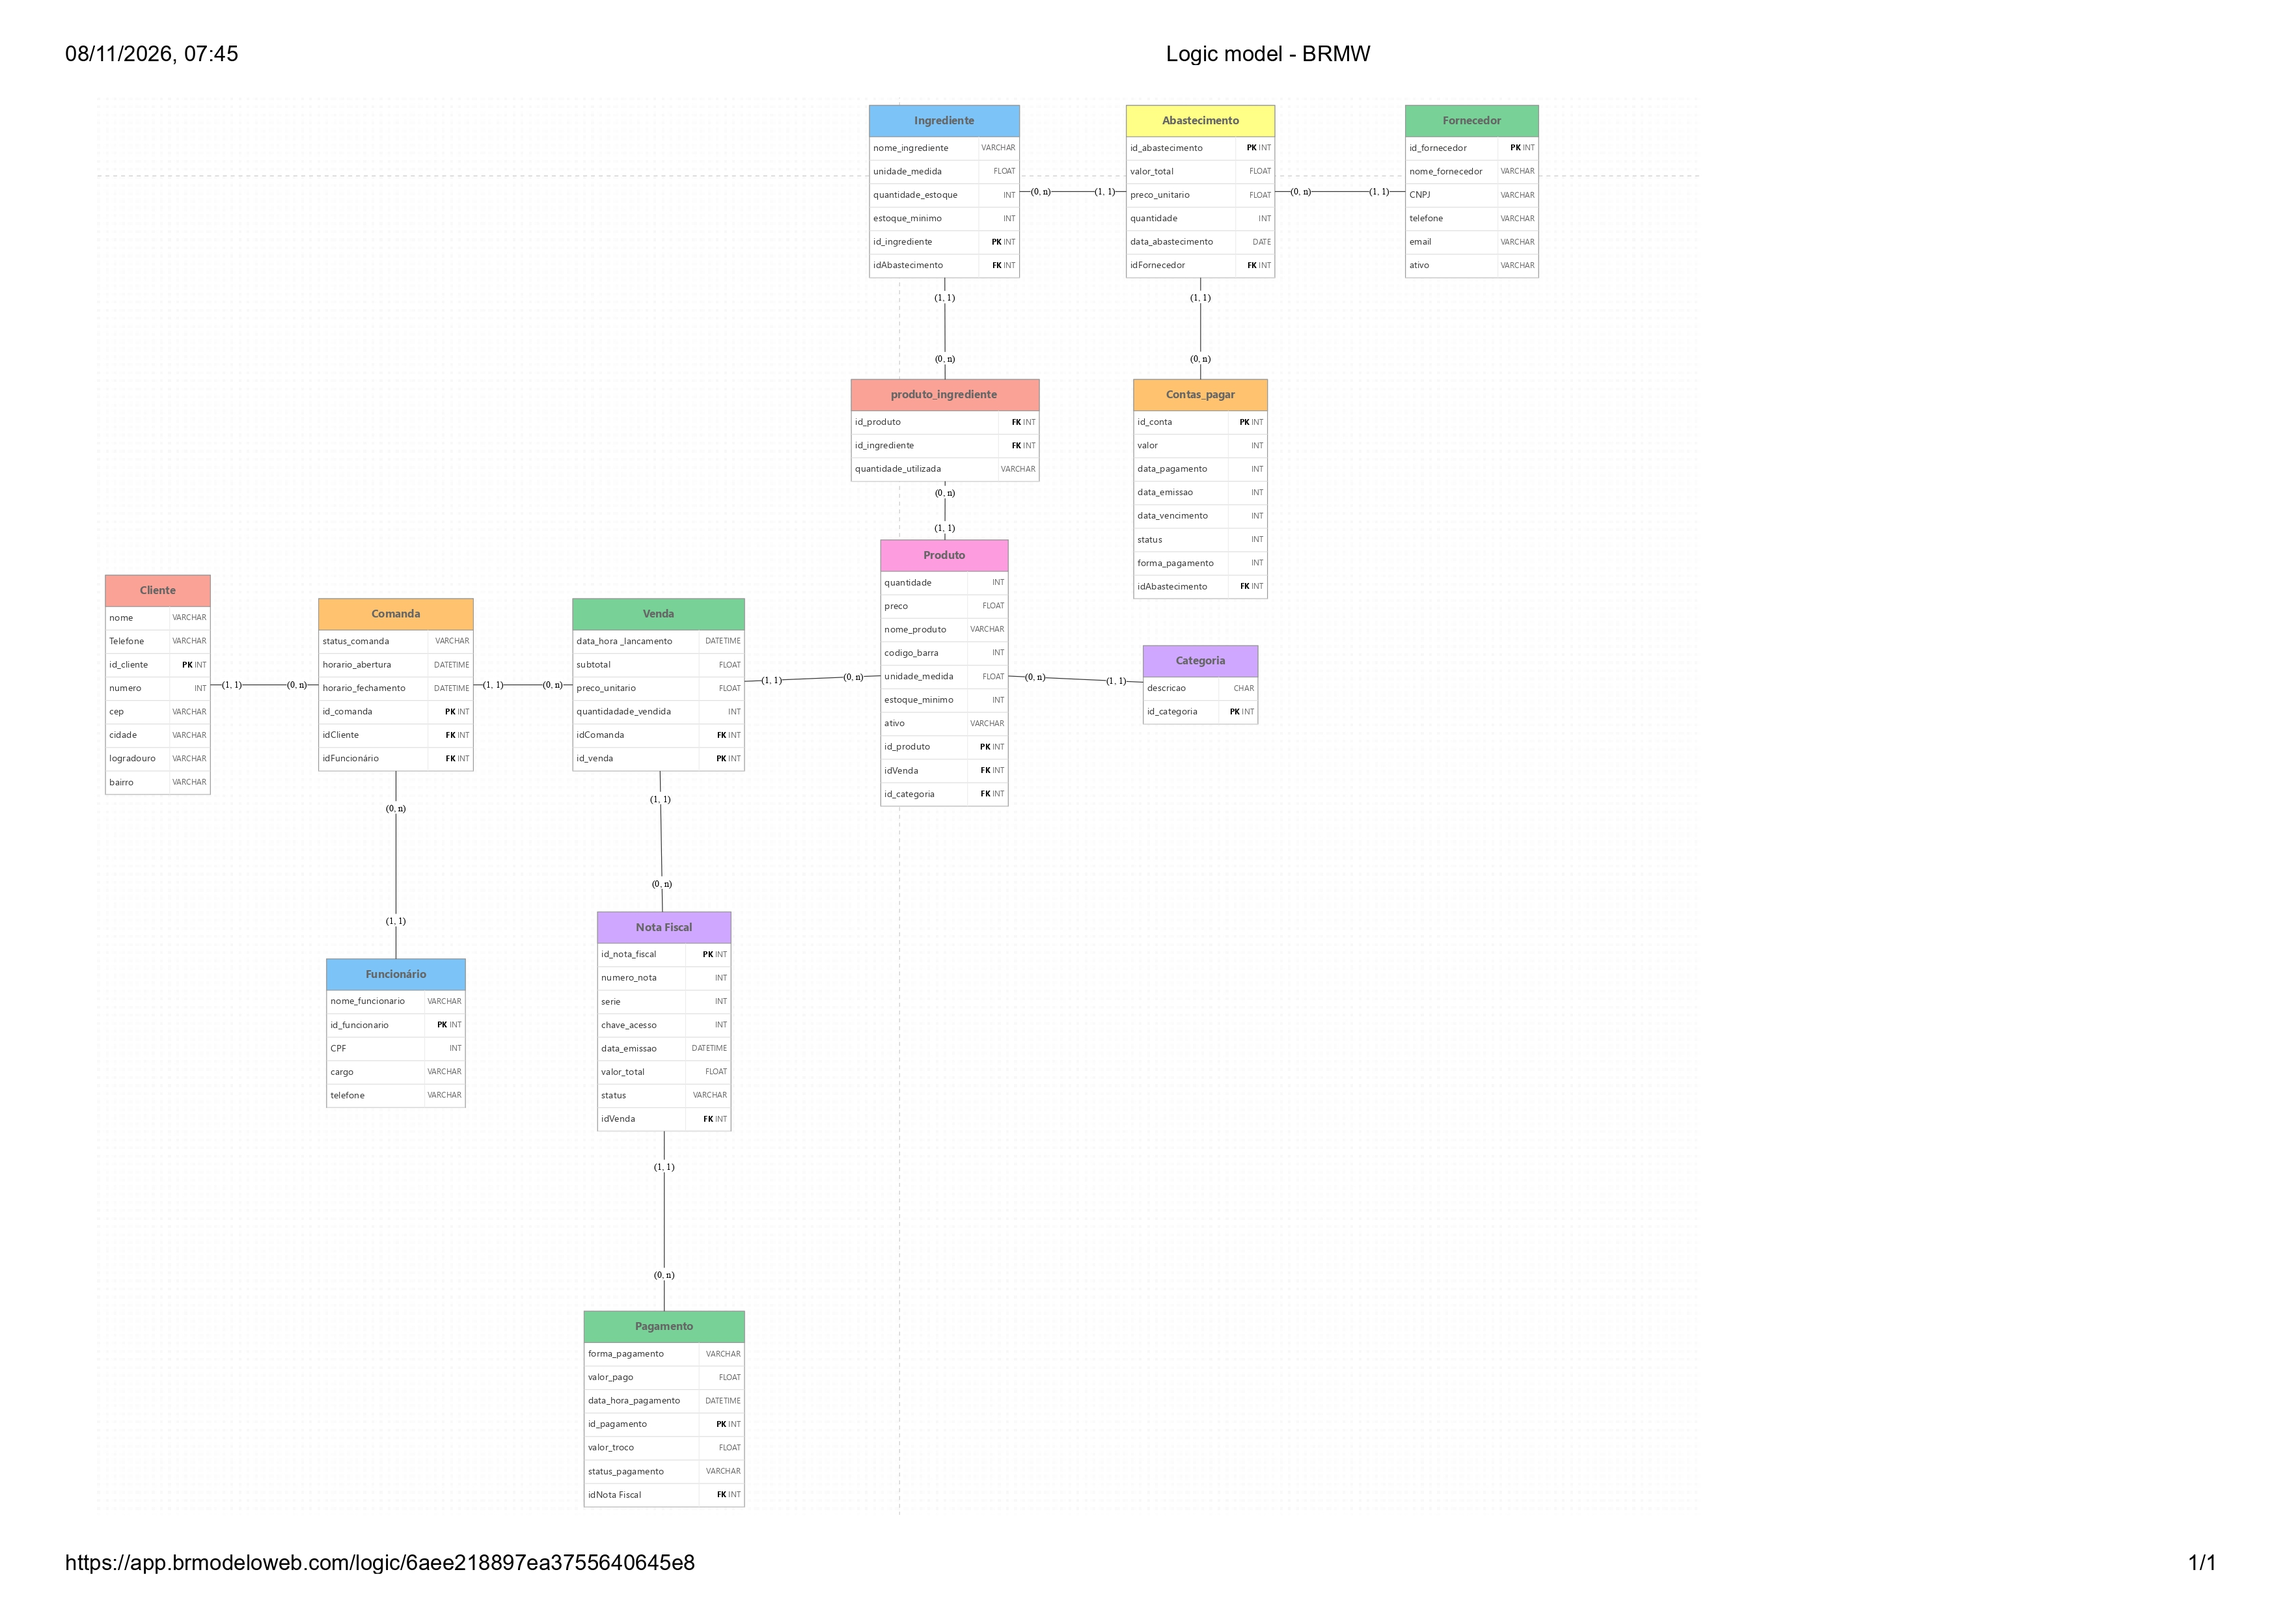
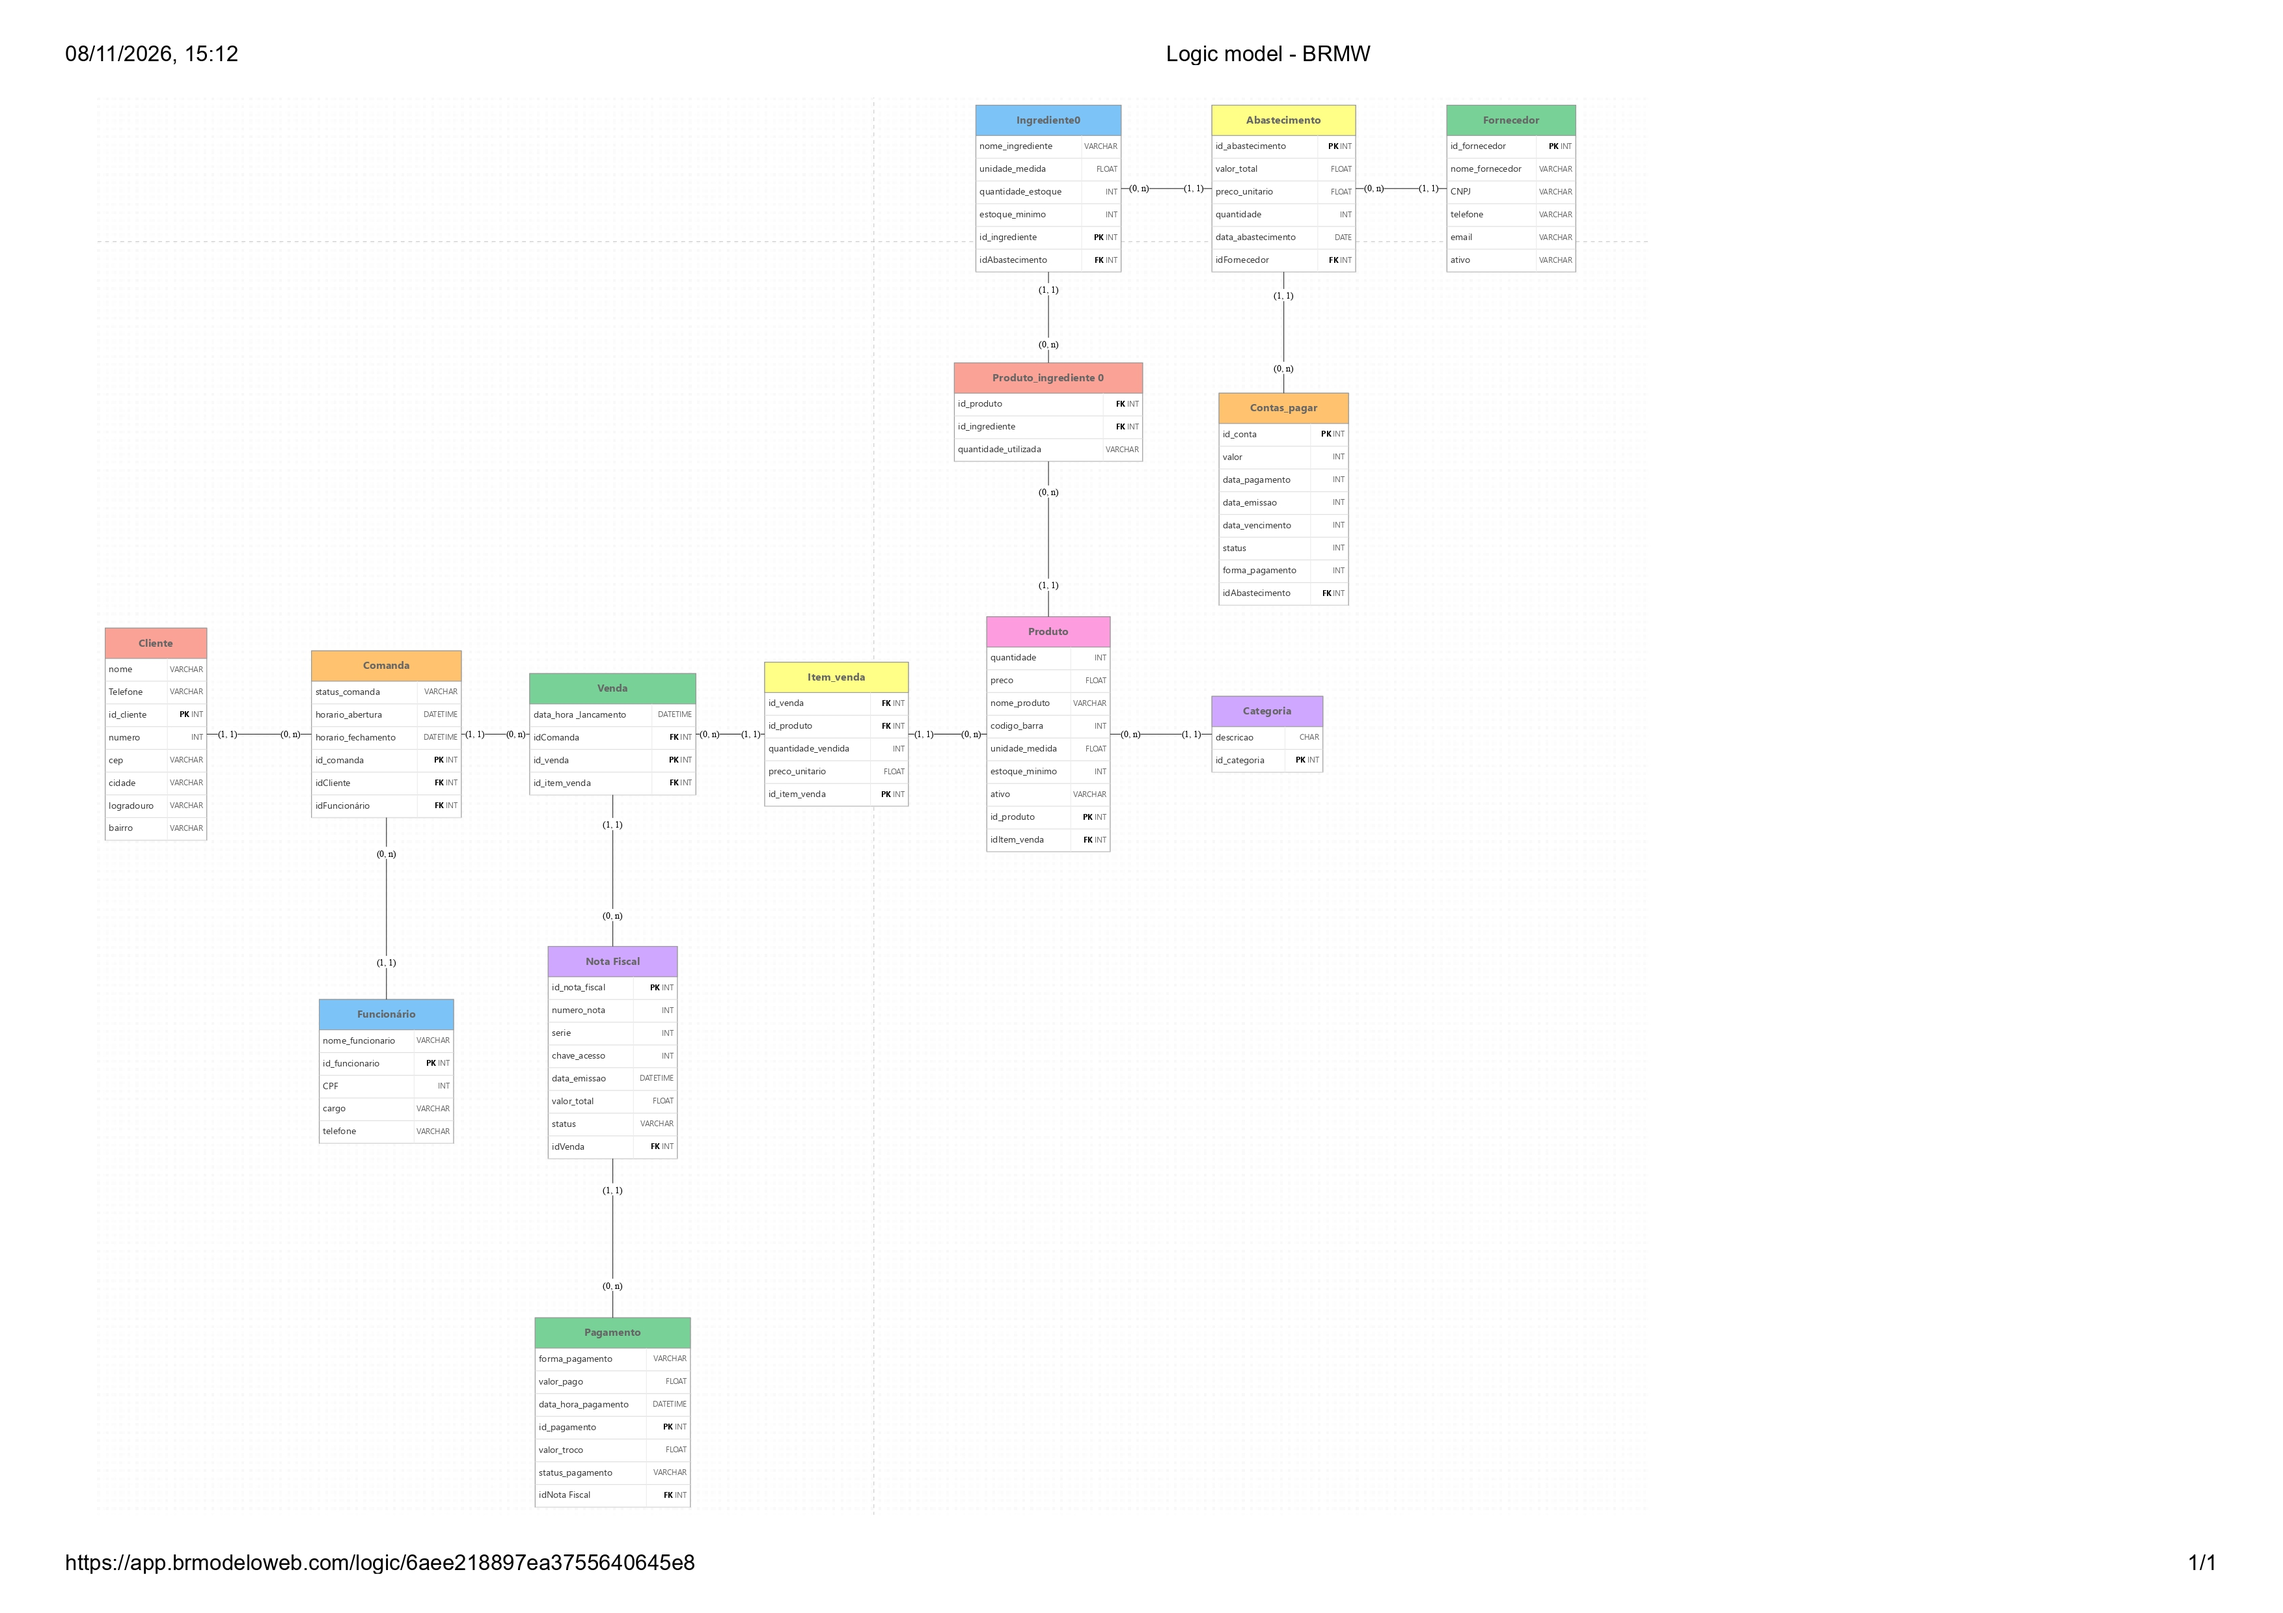
mudança da imagem

diff --git a/README.md b/README.md
@@ -269,7 +269,7 @@ O modelo conceitual **não possui** generalização nem especialização: todas 
 
 - **PKs:** identificadores inteiros próprios (`id_<entidade>`) nas entidades principais e chave composta em `Produto_Ingrediente`, evitando depender de CPF, CNPJ, número de nota ou código de barras, que podem mudar ou faltar. `Comanda` tem id próprio porque a comanda física numerada é reaproveitada após o pagamento total (RN06). `Venda` e `Abastecimento` têm chave própria para permitir o mesmo produto ou ingrediente repetido.
 - **FKs:** implementam as correspondências entre cliente, funcionário e comanda; comanda, produto e venda (RN04, RN05); venda e nota fiscal (RN12); nota fiscal e pagamento; categoria e produto; produto e ingrediente; ingrediente, fornecedor e abastecimento; abastecimento e conta a pagar. `ON DELETE RESTRICT` impede excluir um registro pai que tenha dependentes, o que preserva o histórico.
-- **Obrigatoriedade e domínios:** `NOT NULL` nas chaves estrangeiras de participação obrigatória e nos atributos essenciais, e `CHECK` para situação, valores positivos e datas coerentes. Exemplos: `ck_comanda_status` (aberta ou paga, RN01), `ck_comanda_fechamento` (comanda aberta não tem horário de fechamento, RN04), `ck_venda_quantidade` (maior que zero), `ck_produto_quantidade` (estoque não negativo, RN05) e `ck_contas_pagar_datas` (vencimento não anterior à emissão). Os `CHECK` requerem **MySQL 8.0.16+**.
+- **Obrigatoriedade e domínios:** `NOT NULL` nas chaves estrangeiras de participação obrigatória e nos atributos essenciais, e `CHECK` para situação, valores positivos e datas coerentes. Exemplos: `ck_comanda_status` (aberta ou paga, RN01), `ck_comanda_fechamento` (comanda aberta não tem horário de fechamento, RN04), `ck_venda_quantidade` (maior que zero), `ck_produto_quantidade` (estoque não negativo, RN05) e `ck_contas_pagar_datas` (vencimento não anterior à emissão). Os `CHECK` requerem.
 - **Unicidade:** `Nota_Fiscal.id_venda` é `UNIQUE` (uma nota por venda, RN12), assim como `chave_acesso`, o par (`numero_nota`, `serie`), `Funcionario.CPF`, `Fornecedor.CNPJ` e `Produto.codigo_barra`, que aceita nulo.
 - **Valores monetários e peso:** `DECIMAL(10,2)` evita aproximações de ponto flutuante nos valores financeiros, e `quantidade_vendida` em `DECIMAL(10,3)` guarda o peso líquido do self-service (RN08). O BRModelo exibe tipos genéricos (`FLOAT`, `INT`), mas o DDL define os tipos implementados.
 - **Nulidade intencional:** `Produto.id_categoria` (produto sem categoria), `horario_fechamento` (comanda ainda aberta) e `Contas_pagar.data_pagamento` (conta ainda não paga) admitem ausência quando o evento correspondente não ocorreu.
